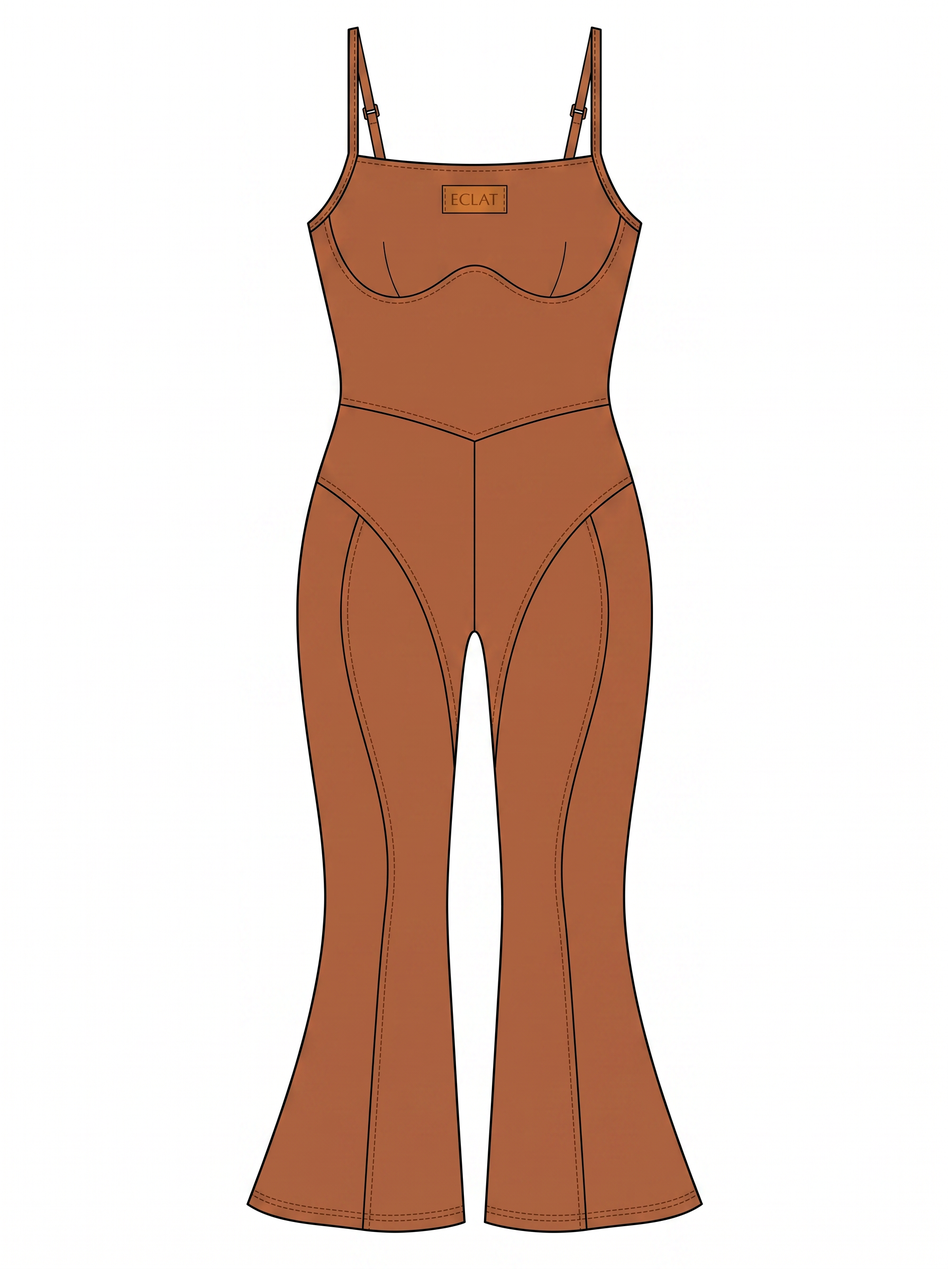
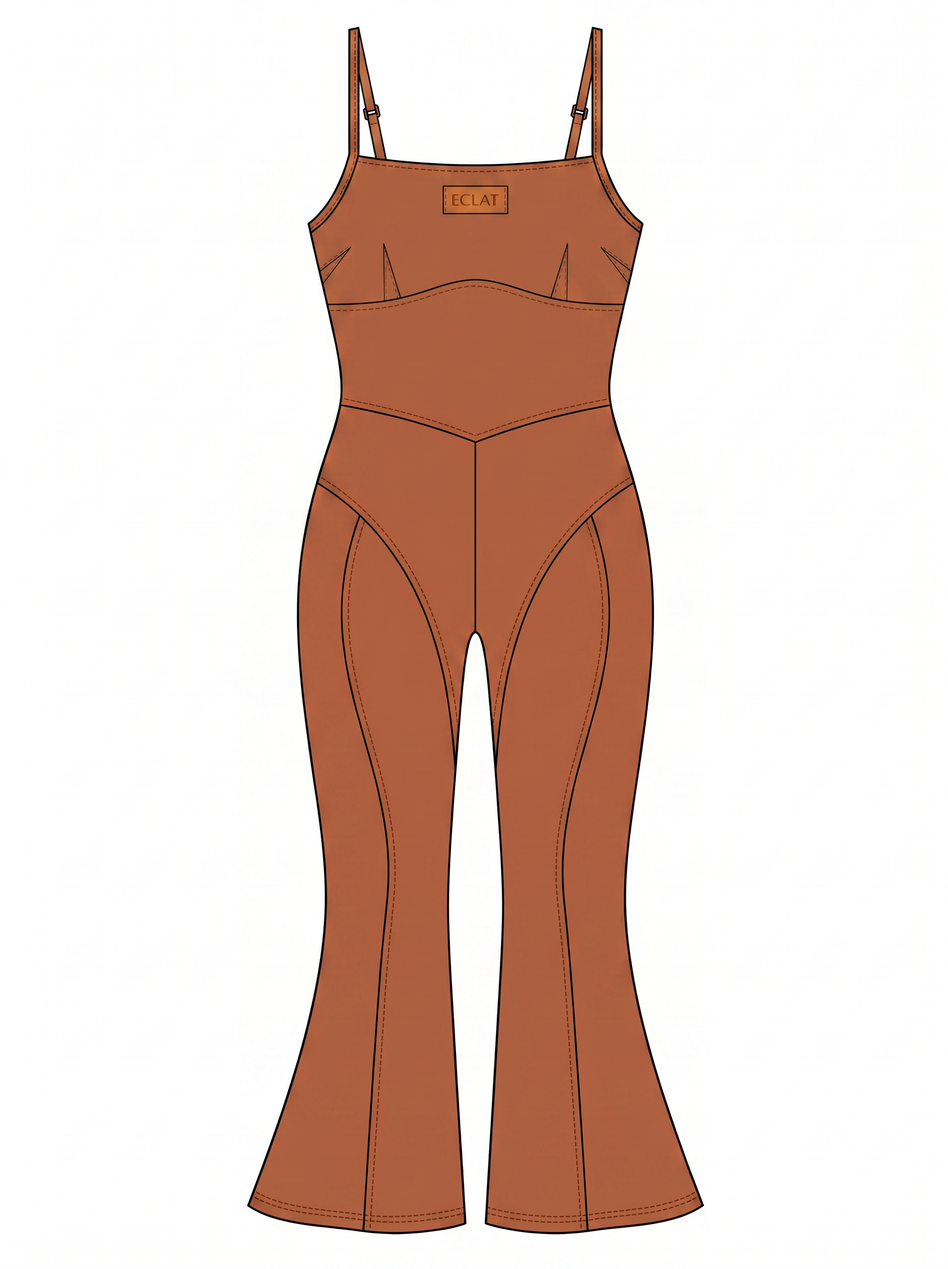
fix(eclat): corrige de vez a costura do busto no desenho técnico do Alvorada
Segunda rodada de correção nessa mesma peça: a versão anterior tinha
fundido o dardo e a costura sob o busto numa única curva em coração.
A foto aprovada mostra dois sistemas de costura separados — um dardo
reto de cada lado terminando em ponta, e abaixo dele, sem se conectar,
uma costura quase reta com arco bem sutil.

A comparação que pegou o erro foi olhar recortes bem próximos lado a
lado (busto, cós, coxa), não a peça inteira — registrado como método
daqui pra frente.

diff --git a/docs/eclat/COLECAO-002-NUANCE.md b/docs/eclat/COLECAO-002-NUANCE.md
@@ -113,7 +113,10 @@ A primeira geração tinha colocado o monograma no peito esquerdo — corrigido 
 - Render fotográfico costas — `fichas/macaquinhoA-bronze-costas.png`
 - Desenho técnico (croqui plano) — `fichas/tec_alvorada_flat.png`, montado por `fichas/compose-flat-alvorada.py`
 
-**Correção de fidelidade:** a primeira versão do desenho técnico simplificou a costura da frente para um cós reto e uma linha só por perna — a peça real tem um recorte curvo sob o busto (tipo top nadador), um segundo cós em V, e duas linhas por perna formando um desenho em grão na coxa antes de correr soltas até a barra. Corrigido comparando direto contra o render fotográfico aprovado.
+**Correção de fidelidade (duas rodadas):**
+
+1. A primeira versão simplificou a costura da frente para um cós reto e uma linha só por perna — a peça real tem um recorte curvo sob o busto, um segundo cós em V, e duas linhas por perna formando um desenho em grão na coxa antes de correr soltas até a barra.
+2. A segunda versão ainda errou o busto: desenhou uma curva única em formato coração fundindo dardo e costura. A peça real tem **dois sistemas de costura separados** — um dardo reto de cada lado, terminando em ponta, e abaixo dele, sem se conectar, uma costura quase reta (arco bem sutil) correndo de lado a lado. Corrigido comparando lado a lado com recortes bem próximos do render fotográfico aprovado, não só a peça inteira.
 
 ### Pendências
 
